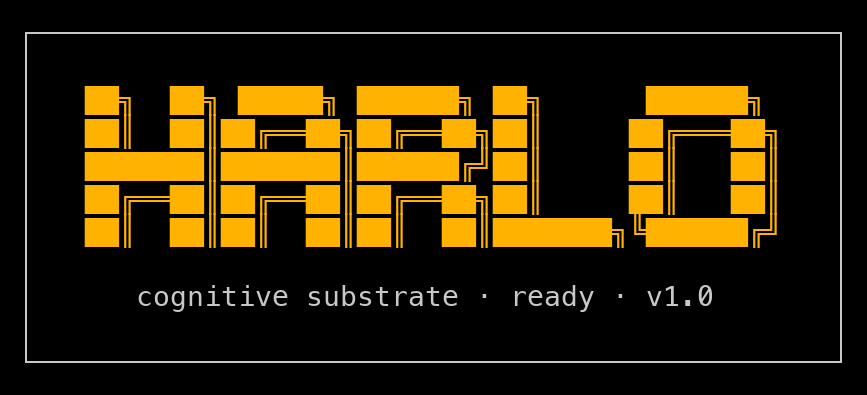
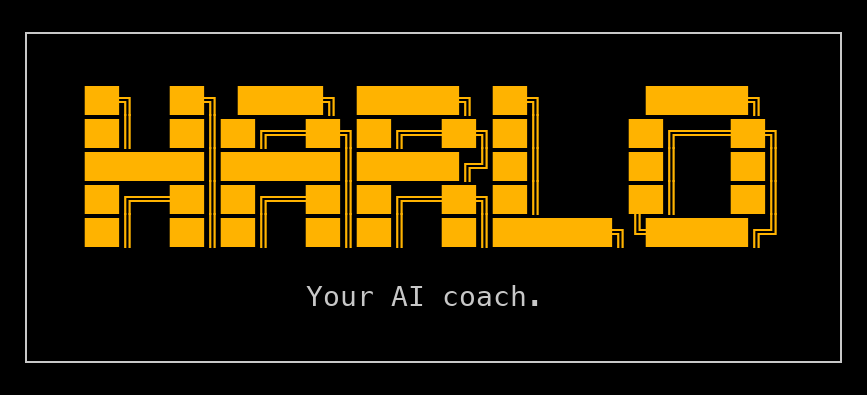
feat(branding): switch HARLO byline to 'Your AI coach.'
Descriptor-only swap. Wordmark, box width, and color treatment
(#FFB300 wordmark / #C8C8C8 descriptor + vector border) unchanged.

Changed region(s): [[0.1557, 0.7291, 0.6851, 0.7899], [0.7474, 0.7291, 0.8408, 0.7899]]

diff --git a/src/branding.py b/src/branding.py
@@ -19,7 +19,7 @@ HARLO_BANNER = '''
 │   ██╔══██║██╔══██║██╔══██╗██║     ██║   ██║   │
 │   ██║  ██║██║  ██║██║  ██║███████╗╚██████╔╝   │
 │                                               │
-│      cognitive substrate · ready · v1.0       │
+│                Your AI coach.                 │
 │                                               │
 └───────────────────────────────────────────────┘
 '''
